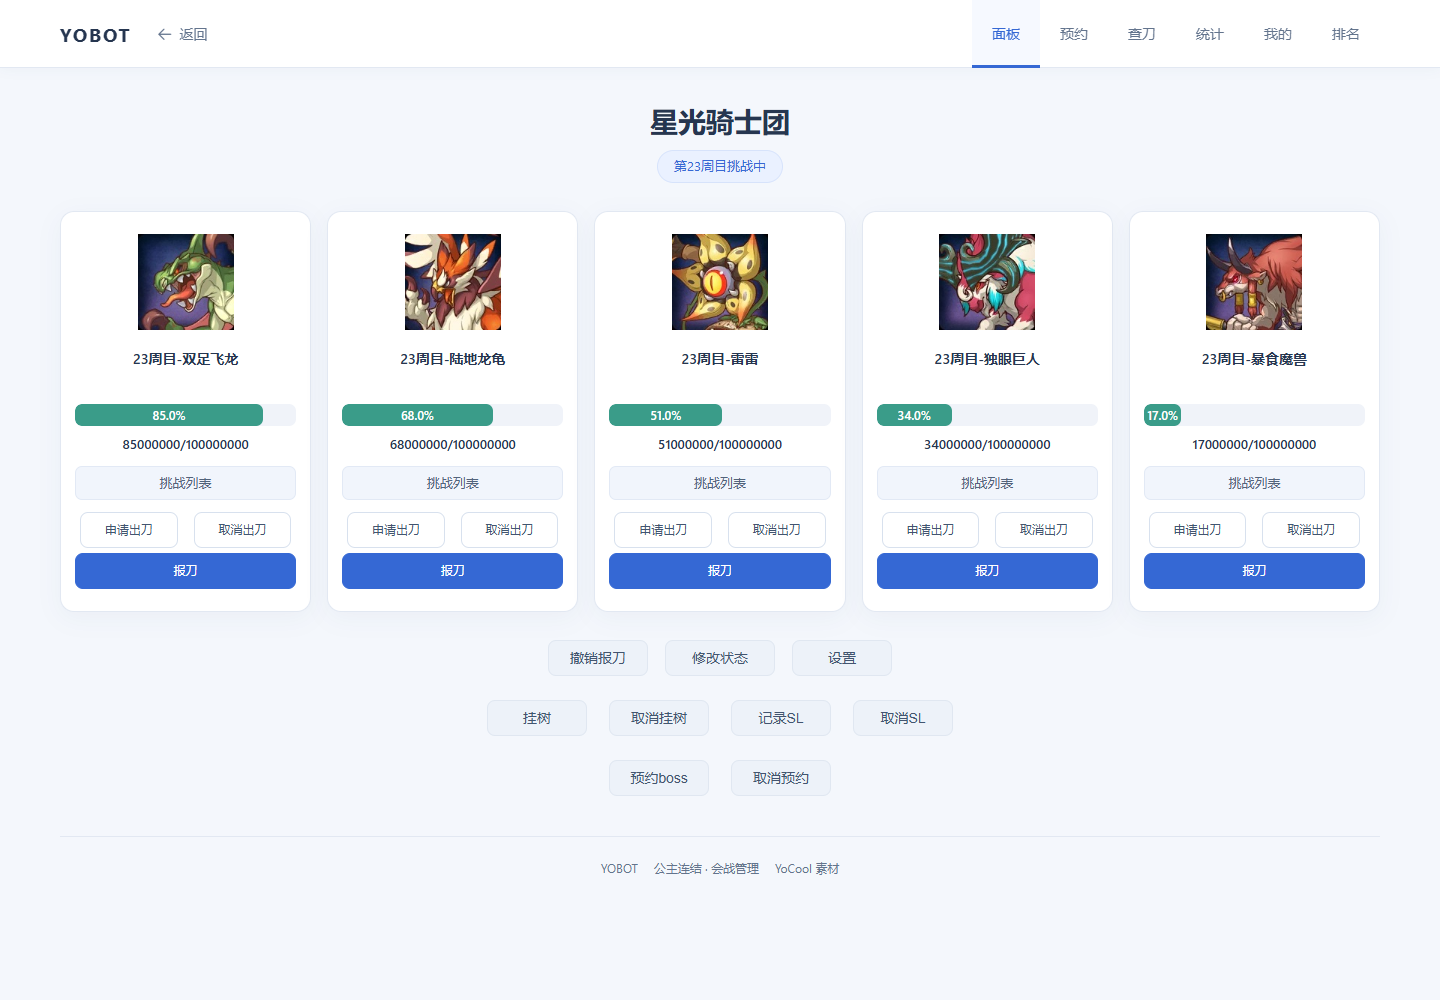
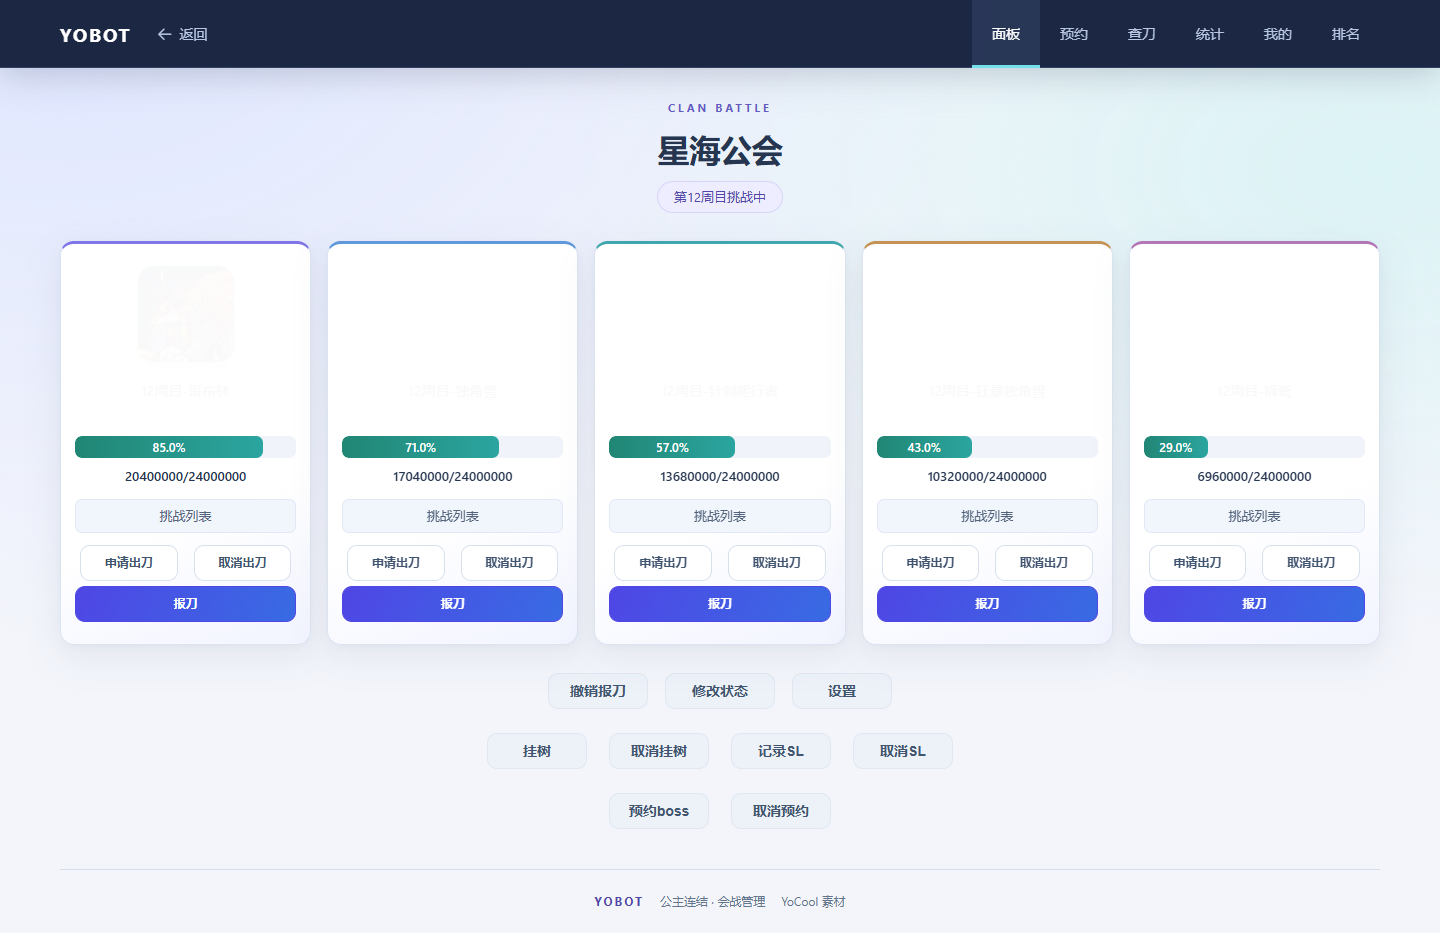
feat: enrich frontend surfaces and interaction motion

diff --git a/src/client/public/static/ui/theme.css b/src/client/public/static/ui/theme.css
@@ -1,16 +1,20 @@
 /* Shared presentation layer. Legacy layout and component behavior stay local. */
 html.yobot-ui {
   color-scheme: light;
-  --primary-color-1: #3568d4;
-  --primary-color-2: #eaf0ff;
+  --primary-color-1: #4f46e5;
+  --primary-color-2: #eeedff;
   --secondary-color-1: #3568d4;
   --secondary-color-2: #244da6;
   --background-color: #f4f7fc;
   --font-color: #263650;
   --ui-muted: #63748d;
-  --ui-border: #e2e8f2;
-  --ui-shadow: 0 6px 24px rgba(31, 55, 93, .045);
-  background: var(--background-color);
+  --ui-border: #dce3f1;
+  --ui-shadow: 0 12px 36px rgba(33, 48, 91, .08), 0 2px 6px rgba(33, 48, 91, .035);
+  --ui-accent: #4f46e5;
+  --ui-ease: cubic-bezier(.22, 1, .36, 1);
+  background: radial-gradient(ellipse at 5% 0%, #dfe6ff 0, transparent 48%),
+    radial-gradient(ellipse at 96% 18%, #dcf3f5 0, transparent 42%), #f3f5fb;
+  min-height: 100%;
 }
 .yobot-ui body {
   margin: 0;
@@ -57,20 +61,22 @@ html.yobot-ui {
   display: flex;
   align-items: center;
   gap: 24px;
-  background: #fff;
-  border-bottom: 1px solid var(--ui-border);
-  box-shadow: 0 2px 12px rgba(31, 55, 93, .035);
+  background: rgba(17, 28, 57, .95);
+  backdrop-filter: blur(18px);
+  -webkit-backdrop-filter: blur(18px);
+  border-bottom: 1px solid rgba(169, 195, 255, .16);
+  box-shadow: 0 8px 32px rgba(17, 28, 57, .18);
   z-index: 100;
 }
 .yobot-ui #topToolbar::before {
   content: "YOBOT";
-  color: #263650;
+  color: #fff;
   font-size: 19px;
   font-weight: 750;
   letter-spacing: 1.8px;
 }
-.yobot-ui #topToolbar .el-page-header { position: static; flex-shrink: 0; color: var(--ui-muted); }
-.yobot-ui #topToolbar .el-page-header__title { color: var(--ui-muted); }
+.yobot-ui #topToolbar .el-page-header { position: static; flex-shrink: 0; color: #b9c8e5; }
+.yobot-ui #topToolbar .el-page-header__title, .yobot-ui #topToolbar .el-icon-back:before { color: #b9c8e5; }
 .yobot-ui #topToolbar .el-page-header__left::after { display: none; }
 .yobot-ui .el-icon-back:before { color: var(--ui-muted); }
 .yobot-ui .el-button--primary .el-icon-back:before { color: #fff; }
@@ -87,26 +93,28 @@ html.yobot-ui {
   height: 68px;
   line-height: 68px;
   padding: 0 20px;
-  color: var(--ui-muted);
+  color: #b9c8e5;
   font-weight: 500;
+  transition: color .2s ease, background-color .2s ease, border-color .2s ease;
   border-bottom: 3px solid transparent;
   background: transparent;
 }
 .yobot-ui #topToolbar .el-menu-item.is-active,
 .yobot-ui #topToolbar .el-menu-item:hover,
 .yobot-ui #topToolbar .el-menu-item:focus {
-  color: #3568d4;
-  border-bottom-color: #3568d4;
-  background: #f6f9ff;
+  color: #fff;
+  border-bottom-color: #75dfec;
+  background: rgba(142, 168, 235, .12);
 }
 
 /* Consistent form controls, with red reserved for destructive actions. */
-.yobot-ui .el-button { border-radius: 8px; font-weight: 500; box-shadow: none; }
+.yobot-ui .el-button { border-radius: 10px; font-weight: 550; box-shadow: none;
+  transition: background-color .2s ease, border-color .2s ease, box-shadow .25s ease, transform .2s var(--ui-ease); }
 .yobot-ui .el-button:not(.is-circle):not(.Service-item) { min-height: 36px; }
 .yobot-ui .el-button--default { color: #425570; border-color: #d8e1ee; background: #fff; }
 .yobot-ui .el-button--default:hover { color: #3568d4; background: #f0f5ff; border-color: #9cb7ee; }
-.yobot-ui .el-button--primary { background: #3568d4; border-color: #3568d4; color: #fff; }
-.yobot-ui .el-button--primary:hover { background: #2859be; border-color: #2859be; }
+.yobot-ui .el-button--primary { background: linear-gradient(115deg, #4f46e5, #386be3); border-color: #4f46e5; color: #fff; box-shadow: 0 5px 14px rgba(79, 70, 229, .2); }
+.yobot-ui .el-button--primary:hover { background: linear-gradient(115deg, #4338ca, #2859be); border-color: #4338ca; box-shadow: 0 8px 20px rgba(79, 70, 229, .26); }
 .yobot-ui .el-button--info { color: #425570; background: #edf2f9; border-color: #e0e7f1; }
 .yobot-ui .el-button--info:hover { color: #3568d4; background: #e4edff; border-color: #b9ccf1; }
 .yobot-ui .el-button--danger { background: #cb4651; border-color: #cb4651; color: #fff; }
@@ -118,7 +126,8 @@ html.yobot-ui {
   color: var(--font-color);
   background: #fff;
 }
-.yobot-ui .el-input__inner:focus, .yobot-ui .el-textarea__inner:focus { border-color: #3568d4; }
+.yobot-ui .el-input__inner, .yobot-ui .el-textarea__inner { transition: border-color .2s ease, box-shadow .2s ease; }
+.yobot-ui .el-input__inner:focus, .yobot-ui .el-textarea__inner:focus { border-color: #7165ea; box-shadow: 0 0 0 3px rgba(113, 101, 234, .1); }
 .yobot-ui .el-input__inner::placeholder, .yobot-ui .el-textarea__inner::placeholder { color: #8794a8; }
 .yobot-ui .el-form-item__label { color: #52637b; }
 .yobot-ui .el-checkbox__label, .yobot-ui .el-radio__label { color: #52637b; }
@@ -137,7 +146,7 @@ html.yobot-ui {
 
 /* Tables keep their internal scrollbars, rather than widening the page. */
 .yobot-ui .el-table { border: 1px solid var(--ui-border); border-radius: 12px; box-shadow: var(--ui-shadow); color: #425570; }
-.yobot-ui .el-table th, .yobot-ui .el-table__header { background: #f1f5fc; color: #52637b; font-weight: 600; }
+.yobot-ui .el-table th, .yobot-ui .el-table__header { background: #eaf0fb; color: #3e4b73; font-weight: 600; }
 .yobot-ui .el-table td, .yobot-ui .el-table th.is-leaf { border-bottom-color: #edf1f7; }
 .yobot-ui .el-table--enable-row-transition .el-table__body td { background: #fff; }
 .yobot-ui .el-table--striped .el-table__body tr.el-table__row--striped td { background: #f8fafd; }
@@ -196,7 +205,7 @@ html.yobot-ui {
 .yobot-ui .boss-card > div { font-size: 13px; }
 .yobot-ui .boss-card .boss-title { color: #263650; font-size: 14px; min-height: 44px; margin-bottom: 12px; }
 .yobot-ui .boss_info-single_health_box { height: 22px; border: 0; border-radius: 7px; background: #f0f3f9; margin: 4px 0 8px; float: none; overflow: hidden; }
-.yobot-ui .boss_info-single_health { height: 22px; line-height: 22px; background: #3a9c89; border-radius: 7px; color: #fff; font-size: 12px; font-weight: 600; }
+.yobot-ui .boss_info-single_health { height: 22px; line-height: 22px; background: linear-gradient(90deg, #218674, #2ba5a0); border-radius: 7px; color: #fff; font-size: 12px; font-weight: 600; }
 .yobot-ui .boss_info-single_challenger { height: auto; padding: 6px 10px; border: 1px solid #e2e9f5; border-radius: 7px; background: #f1f5fc; color: #52637b; font-size: 12px; line-height: 20px; margin: 12px 0; cursor: pointer; }
 .yobot-ui .challengers_window { background: #344a6b; color: #fff; border: 0; box-shadow: 0 8px 24px rgba(18,40,75,.18); width: 240px; max-width: calc(100vw - 40px); transform: none; left: 0; padding: 12px; border-radius: 10px; }
 .yobot-ui .small-buttons-row { gap: 6px; margin-bottom: 6px; }
@@ -206,7 +215,7 @@ html.yobot-ui {
 .yobot-ui .buttons-row { gap: 12px; flex-wrap: wrap; justify-content: center; margin: 16px 0 24px !important; }
 .yobot-ui .buttons-row > div { min-width: 110px; }
 .yobot-ui .buttons-row .el-button { height: auto; }
-.yobot-ui .ui-panel .report-button { background: #3568d4; border-color: #3568d4; color: #fff; }
+.yobot-ui .ui-panel .report-button { background: linear-gradient(115deg, #4f46e5, #386be3); border-color: #4f46e5; color: #fff; }
 .yobot-ui .ui-panel .report-button:hover { background: #2859be; }
 .yobot-ui .mobile-boss-card { margin: 0 0 14px !important; padding: 16px; border: 1px solid var(--ui-border); border-radius: 14px; background: #fff !important; box-shadow: var(--ui-shadow); }
 .yobot-ui .mobile-boss-card > .el-col:first-child { width: 25%; }
@@ -214,7 +223,12 @@ html.yobot-ui {
 .yobot-ui .mobile-boss-card > .el-col:nth-child(2) { width: 72% !important; margin-right: 0 !important; height: auto !important; min-height: 112px; }
 .yobot-ui .mobile-boss-card .boss_info-single_challenger { width: auto !important; margin: 8px 0 !important; height: auto !important; }
 .yobot-ui .phone_spread { position: static; margin: 0; clear: both; }
-.yobot-ui .phone_control { height: auto; margin-top: 12px; }
+.yobot-ui .phone_control { clear: both; width: 100%; height: auto; padding-top: 12px; margin-top: 0; }
+.yobot-ui .phone_control .small-buttons-row2 { gap: 8px; margin: 0 !important; }
+.yobot-ui .phone_control .small-buttons-row2 > div { flex: 1; min-width: 0; margin: 0 !important; }
+.yobot-ui .phone_control .small-buttons-row2 > div > .el-button { width: 100% !important; padding: 9px 6px; }
+.yobot-ui .phone_control.phone_draw-enter-active, .yobot-ui .phone_control.phone_draw-leave-active { transition: opacity .2s ease; }
+.yobot-ui .phone_control.phone_draw-enter, .yobot-ui .phone_control.phone_draw-leave-to { opacity: 0; }
 
 /* Landing, sign-in and account pages use the same calm surfaces. */
 .yobot-ui .header { background: transparent; color: #263650; margin: 0 auto; }
@@ -281,6 +295,99 @@ html.yobot-ui {
 .yobot-ui .ui-admin .el-form--inline { padding: 20px; background: #fff; border: 1px solid var(--ui-border); border-radius: 12px; margin-bottom: 20px; text-align: left; }
 .yobot-ui .ui-admin .el-page-header { margin: 0 0 24px; color: var(--ui-muted); }
 
+/* Layered surfaces and restrained motion. Containers with fixed dialogs never transform. */
+.yobot-ui .ui-admin .el-page-header, .yobot-ui .ui-chart .el-page-header {
+  padding: 22px 24px;
+  border: 1px solid rgba(152, 177, 242, .2);
+  border-radius: 16px;
+  background: radial-gradient(ellipse at 100% 0%, rgba(70, 131, 196, .55), transparent 65%),
+    linear-gradient(110deg, #172342, #2c3866);
+  box-shadow: 0 12px 30px rgba(28, 42, 78, .14);
+  color: #d5e1fb;
+}
+.yobot-ui .ui-admin .el-page-header__content, .yobot-ui .ui-chart .el-page-header__content {
+  color: #fff; font-weight: 650; letter-spacing: .3px;
+}
+.yobot-ui .ui-admin .el-page-header .el-icon-back:before,
+.yobot-ui .ui-chart .el-page-header .el-icon-back:before { color: #d5e1fb; }
+.yobot-ui .ui-admin .el-page-header__left::after,
+.yobot-ui .ui-chart .el-page-header__left::after { background-color: rgba(213, 225, 251, .25); }
+.yobot-ui .ui-home .header, .yobot-ui .ui-auth .header, .yobot-ui .ui-account .header {
+  max-width: 1320px; margin-bottom: 28px; padding: 28px 20px;
+  border-radius: 22px;
+  background: radial-gradient(ellipse at 85% 0%, rgba(54, 176, 189, .4), transparent 55%),
+    radial-gradient(ellipse at 5% 100%, rgba(102, 89, 231, .5), transparent 60%), #182444;
+  box-shadow: 0 18px 48px rgba(28, 42, 78, .16);
+}
+.yobot-ui .header h1 { color: #fff; font-size: clamp(26px, 3vw, 38px); }
+.yobot-ui .ui-home .header::before, .yobot-ui .ui-auth .header::before,
+.yobot-ui .ui-account .header::before {
+  content: "YOBOT"; display: block; color: #a8e3ed; font-size: 12px; font-weight: 700; letter-spacing: 5px;
+}
+.yobot-ui .clanname { font-size: 32px; font-weight: 750; letter-spacing: -.8px; }
+.yobot-ui .clanname::before {
+  content: "CLAN BATTLE"; display: block; margin-bottom: 8px;
+  color: #655ac5; font-size: 11px; font-weight: 700; letter-spacing: 3px;
+}
+.yobot-ui .clancycle { background: #eeedff; color: #5146aa; border-color: #d8d4f6; }
+.yobot-ui .boss-card, .yobot-ui .mobile-boss-card {
+  border-top: 3px solid #8074e8;
+  background: linear-gradient(160deg, #fff 65%, #f2f4ff);
+  transition: border-color .25s ease, box-shadow .3s ease;
+}
+.yobot-ui .boss-card:nth-child(2) { border-top-color: #5e98db; }
+.yobot-ui .boss-card:nth-child(3) { border-top-color: #40a6ad; }
+.yobot-ui .boss-card:nth-child(4) { border-top-color: #c49253; }
+.yobot-ui .boss-card:nth-child(5) { border-top-color: #b276b6; }
+.yobot-ui .boss-card .boss-title { font-weight: 650; }
+.yobot-ui .boss-card > div:first-child img, .yobot-ui .mobile-boss-card > .el-col:first-child img {
+  border-radius: 16px; box-shadow: 0 6px 16px rgba(31, 44, 83, .16);
+}
+.yobot-ui .boss_info-single_health { transition: width .65s var(--ui-ease); }
+.yobot-ui .el-table { border-radius: 16px; font-variant-numeric: tabular-nums; }
+.yobot-ui .el-table .cell { line-height: 24px; }
+.yobot-ui .el-table__body td { transition: background-color .18s ease; }
+.yobot-ui .el-tabs__active-bar { background: #6558d9; height: 3px; border-radius: 3px; }
+.yobot-ui .el-tabs__item.is-active { color: #5146bd; font-weight: 650; }
+.yobot-ui .el-tabs__nav-wrap::after { background-color: #dce3f1; }
+.yobot-ui .ui-account #app, .yobot-ui .ui-auth #app,
+.yobot-ui .ui-admin .el-form--inline, .yobot-ui .ui-settings #app > .el-form {
+  border-top: 3px solid #8a7fed;
+  background: linear-gradient(135deg, #fff, #fbfcff);
+}
+.yobot-ui .ui-auth .el-form { margin: 0 auto; }
+.yobot-ui .Service-item, .yobot-ui .Service-item:hover {
+  border-radius: 18px; border-top: 3px solid #8074e8;
+  background: linear-gradient(160deg, #fff 55%, #f0f1fc);
+  transition: transform .3s var(--ui-ease), box-shadow .3s ease, border-color .25s ease;
+}
+.yobot-ui .Service-item .item-title { font-size: 18px; color: #273758; }
+.yobot-ui .Service-item .item-image { border-radius: 22px; background: #f0f2fc; }
+.yobot-ui .Service-item.is-disabled, .yobot-ui .Service-item.is-disabled:hover {
+  background: #f2f4f8; border-color: #dce3ed; box-shadow: none;
+}
+.yobot-ui .ui-footer { border-top-color: #d4ddeb; }
+.yobot-ui .ui-footer > a:first-child { font-weight: 750; letter-spacing: 2px; color: #5146aa; }
+@media (hover: hover) and (pointer: fine) {
+  .yobot-ui .el-button:not(.is-disabled):not(.el-button--text):not(.Service-item):hover { transform: translateY(-2px); }
+  .yobot-ui .el-button:not(.is-disabled):not(.Service-item):active { transform: translateY(0); }
+  .yobot-ui .boss-card:hover { border-color: #a59aee; box-shadow: 0 18px 40px rgba(49, 58, 117, .14); }
+  .yobot-ui .Service-item:not(.is-disabled):hover { transform: translateY(-6px); box-shadow: 0 20px 42px rgba(49, 58, 117, .15); }
+}
+@keyframes ui-surface-in { from { opacity: 0; } to { opacity: 1; } }
+@media (prefers-reduced-motion: no-preference) {
+  .yobot-ui .header, .yobot-ui .ui-admin #app > .el-page-header,
+  .yobot-ui .ui-chart #app > .el-page-header,
+  .yobot-ui .boss-card > div:first-child img, .yobot-ui .boss-card .boss-title,
+  .yobot-ui .mobile-boss-card > .el-col:first-child img, .yobot-ui .Service-item {
+    animation: ui-surface-in .55s ease backwards;
+  }
+  .yobot-ui .boss-card:nth-child(2) > div:first-child img, .yobot-ui .Service-item:nth-child(2) { animation-delay: .06s; }
+  .yobot-ui .boss-card:nth-child(3) > div:first-child img, .yobot-ui .Service-item:nth-child(3) { animation-delay: .12s; }
+  .yobot-ui .boss-card:nth-child(4) > div:first-child img, .yobot-ui .Service-item:nth-child(4) { animation-delay: .18s; }
+  .yobot-ui .boss-card:nth-child(5) > div:first-child img { animation-delay: .24s; }
+}
+
 @media (max-width: 1100px) {
   .yobot-ui .boss_info-all { grid-template-columns: repeat(3, minmax(0, 1fr)); }
   .yobot-ui #topToolbar { gap: 12px; }
@@ -296,6 +403,8 @@ html.yobot-ui {
   .yobot-ui #topToolbar .el-menu { flex: 0 0 100%; justify-content: space-between; margin-left: 0; }
   .yobot-ui #topToolbar .el-menu-item { padding: 0 9px; height: 52px; line-height: 52px; font-size: 13px; }
   .yobot-ui h1, .yobot-ui .clanname { font-size: 23px; }
+  .yobot-ui .ui-admin .el-page-header, .yobot-ui .ui-chart .el-page-header { padding: 18px 16px; }
+  .yobot-ui .ui-home .header, .yobot-ui .ui-auth .header, .yobot-ui .ui-account .header { padding: 20px 12px; border-radius: 18px; }
   .yobot-ui .ui-footer { margin-top: 24px; gap: 10px; }
   .yobot-ui .ui-account #app, .yobot-ui .ui-auth #app { padding: 24px 18px; }
   .yobot-ui .ui-account .account-detail { margin: 24px 0 !important; }

diff --git a/docs/frontend.md b/docs/frontend.md
@@ -1,6 +1,6 @@
 # 前端视觉更新
 
-页面使用统一浅蓝白主题，保留 Boss 和角色素材。会战面板、查刀、预约、统计、设置、登录、账号及后台管理页面共享导航、表格、输入框和弹窗样式。
+页面使用深蓝导航、靛蓝主色与青色点缀的统一主题，以渐变标题区、柔和背景光晕、卡片边框和分层阴影加强视觉层次，保留 Boss 和角色素材。会战面板、查刀、预约、统计、设置、登录、账号及后台管理页面共享导航、表格、输入框和弹窗样式。
 
 ## 预览
 
@@ -12,9 +12,15 @@
 
 ![统计入口](ui/statistics.png)
 
+![用户管理](ui/users.png)
+
+![登录页](ui/login.png)
+
 ## 实现
 
 - `public/static/ui/theme.css` 提供共享样式；`partials/ui_head.html` 使用带内容摘要的资源地址，避免旧缓存。
+- 动效包含图片和标题入场、桌面按钮与统计卡片悬停、输入框聚焦反馈和 Boss 血条过渡；系统减少动画偏好会关闭动画与过渡。Boss 卡片容器不使用 transform 或 opacity 动画，确保内嵌弹窗覆盖整个视口。
+- 手机 Boss 操作展开后独占一行，三个按钮等宽排列；展开收起使用短暂淡入淡出。
 - 页面停用 YoCool 的随机主题脚本，素材和旧布局 CSS 仍保留。新的页脚保留项目与素材来源。
 - 面板在 767 像素及以下使用移动布局，监听窗口宽度变化；桌面卡片随宽度改为五列或三列。
 - 宽表格使用表格内部滚动。Boss 设置表在自身区域横向滚动。移动弹窗标签上下排列，图表上下排列并随窗口变化重新计算大小。
@@ -27,3 +33,5 @@
 本轮还使用 Playwright 和本机 Edge 检查 1440、768、390 像素宽度，验证面板、设置、查刀、预约、统计入口、统计图表、账号、登录、密码及后台管理页面无整页横向溢出；报刀弹窗可打开，Boss 设置可展开，窗口变化后图表宽度会更新。网络数据使用模拟响应，未连接生产公会提交报刀，未在 iOS Safari 实机验证。
 
 部署试用时重点检查：切换面板导航、手机展开 Boss 操作、申请及报刀弹窗、查刀表内滚动、统计标签切换、后台保存设置。原会战 API 和数据库没有改动。
+
+本次视觉增强使用真实模板与模拟响应，在 Edge 检查面板、统计入口、首页、登录、用户管理、公会管理和出刀顺序的 1440、768、390、360 像素布局；确认页面无横向溢出，手机 Boss 操作展开不挤压，报刀弹窗层级正确，系统减少动画偏好生效。99 项回归测试通过，其中 Windows 无符号链接权限的 1 项跳过。截图使用模拟数据，未向生产公会发起写入。
